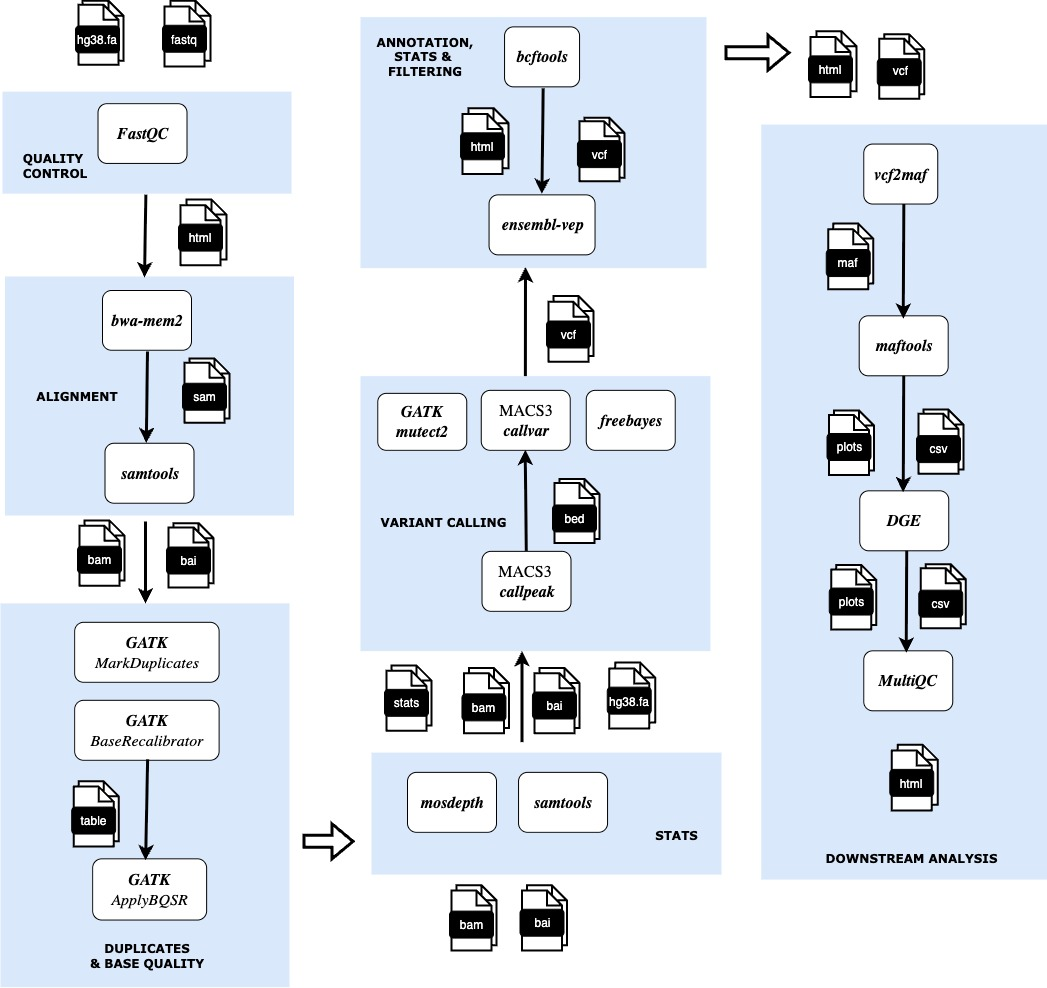
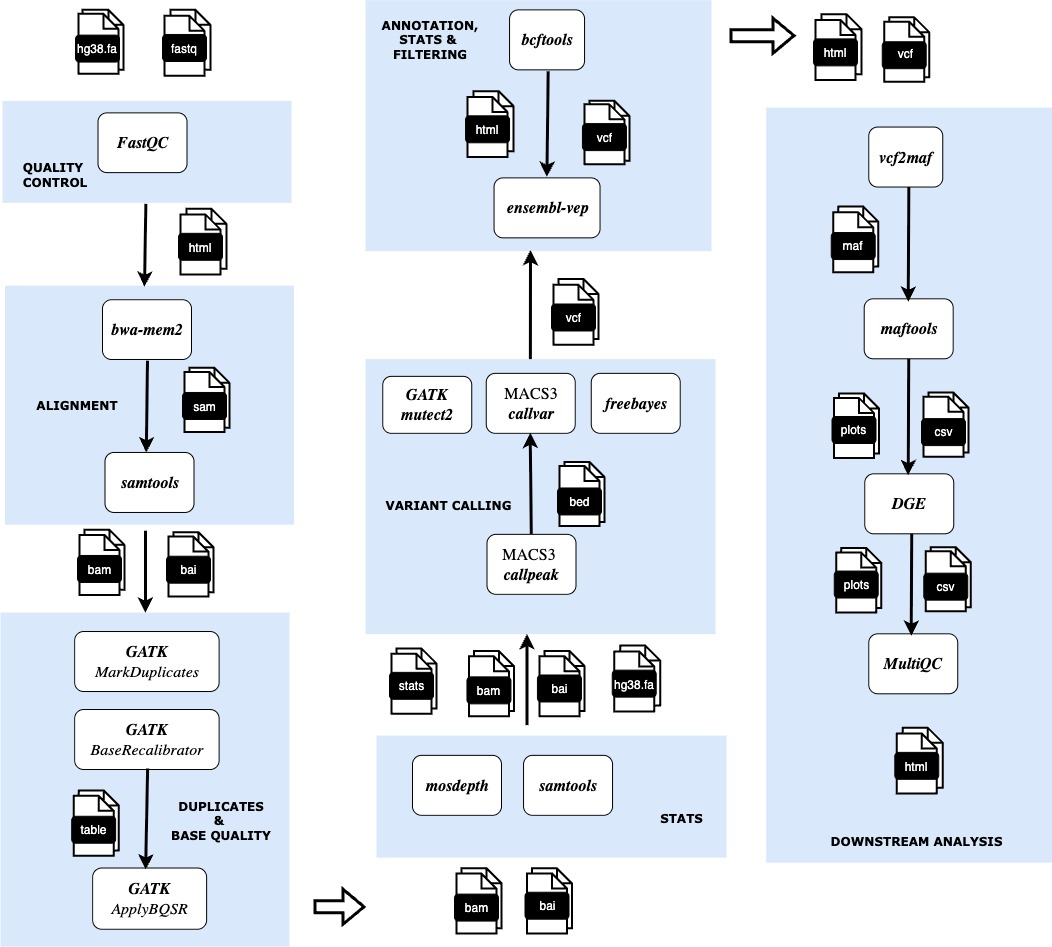
workflow updated

diff --git a/README.md b/README.md
@@ -24,7 +24,7 @@ The pipeline integrates the following tools:
 - Optional MAF conversion – `vcf2maf`, `maftools`
 - Quality control and reporting – `FastQC`, `SamTools`, `Mosdepth`, `BcfTools`, `Ensembl VEP`, summarized with `MultiQC`
 
-![Workflow](./workflow.jpg)
+<img src="./workflow.jpg" alt="Workflow" width="500"/>
 
 
 To speed up variant calling, the reference genome is split into smaller **genomic intervals** using `bedtools`. Each interval is processed in parallel, and the resulting VCF files are merged. This significantly reduces the total wall-clock time and optimizes the use of compute resources.
